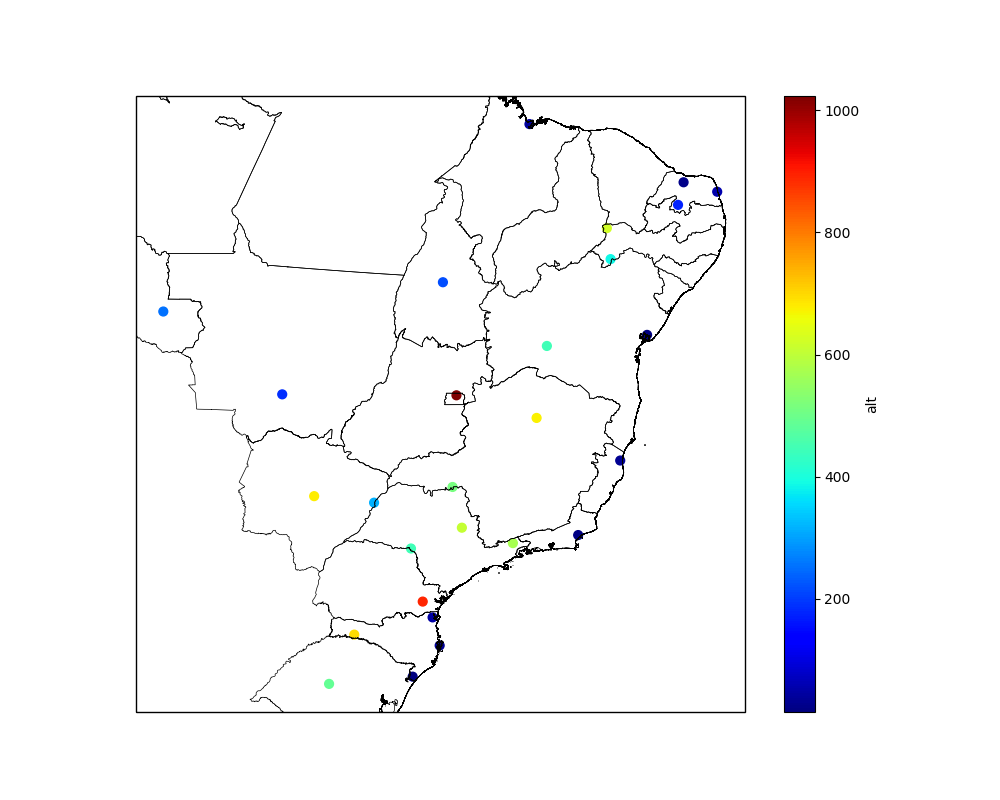
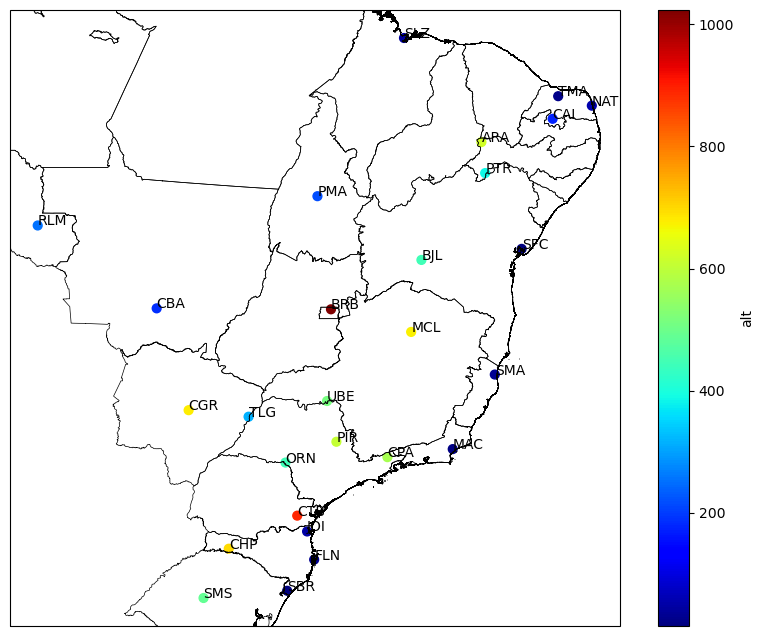
Text near points
Conditional to show or save thight PNG

diff --git a/plot_map.py b/plot_map.py
@@ -35,6 +35,10 @@ shape_feature = ShapelyFeature(shpreader.Reader(feat_file).geometries(),\
  ccrs.PlateCarree(), facecolor='none', edgecolor='k', linewidth=0.5)
 ax.add_feature(shape_feature)
 
+# Plot stations names
+for index, row in df.iterrows():
+    plt.text(row['lon'],row['lat'],row['id'])
+
 # Add info from DataFrame
 normalize = colors.Normalize(vmin=min(df[main_var]), vmax=max(df[main_var]))
 cs = ax.scatter(df['lon'].values, df['lat'].values,\
@@ -47,6 +51,8 @@ cbar = colorbar.ColorbarBase(cax, cmap=plt.get_cmap('jet'),\
  norm=normalize)
 cbar.set_label(main_var)
 
-# Plot and save
-plt.savefig(file_out)
-plt.show()
+# Plot - show or and save
+if file_out == '':
+    plt.show()
+else:
+    plt.savefig(file_out,bbox_inches='tight')
